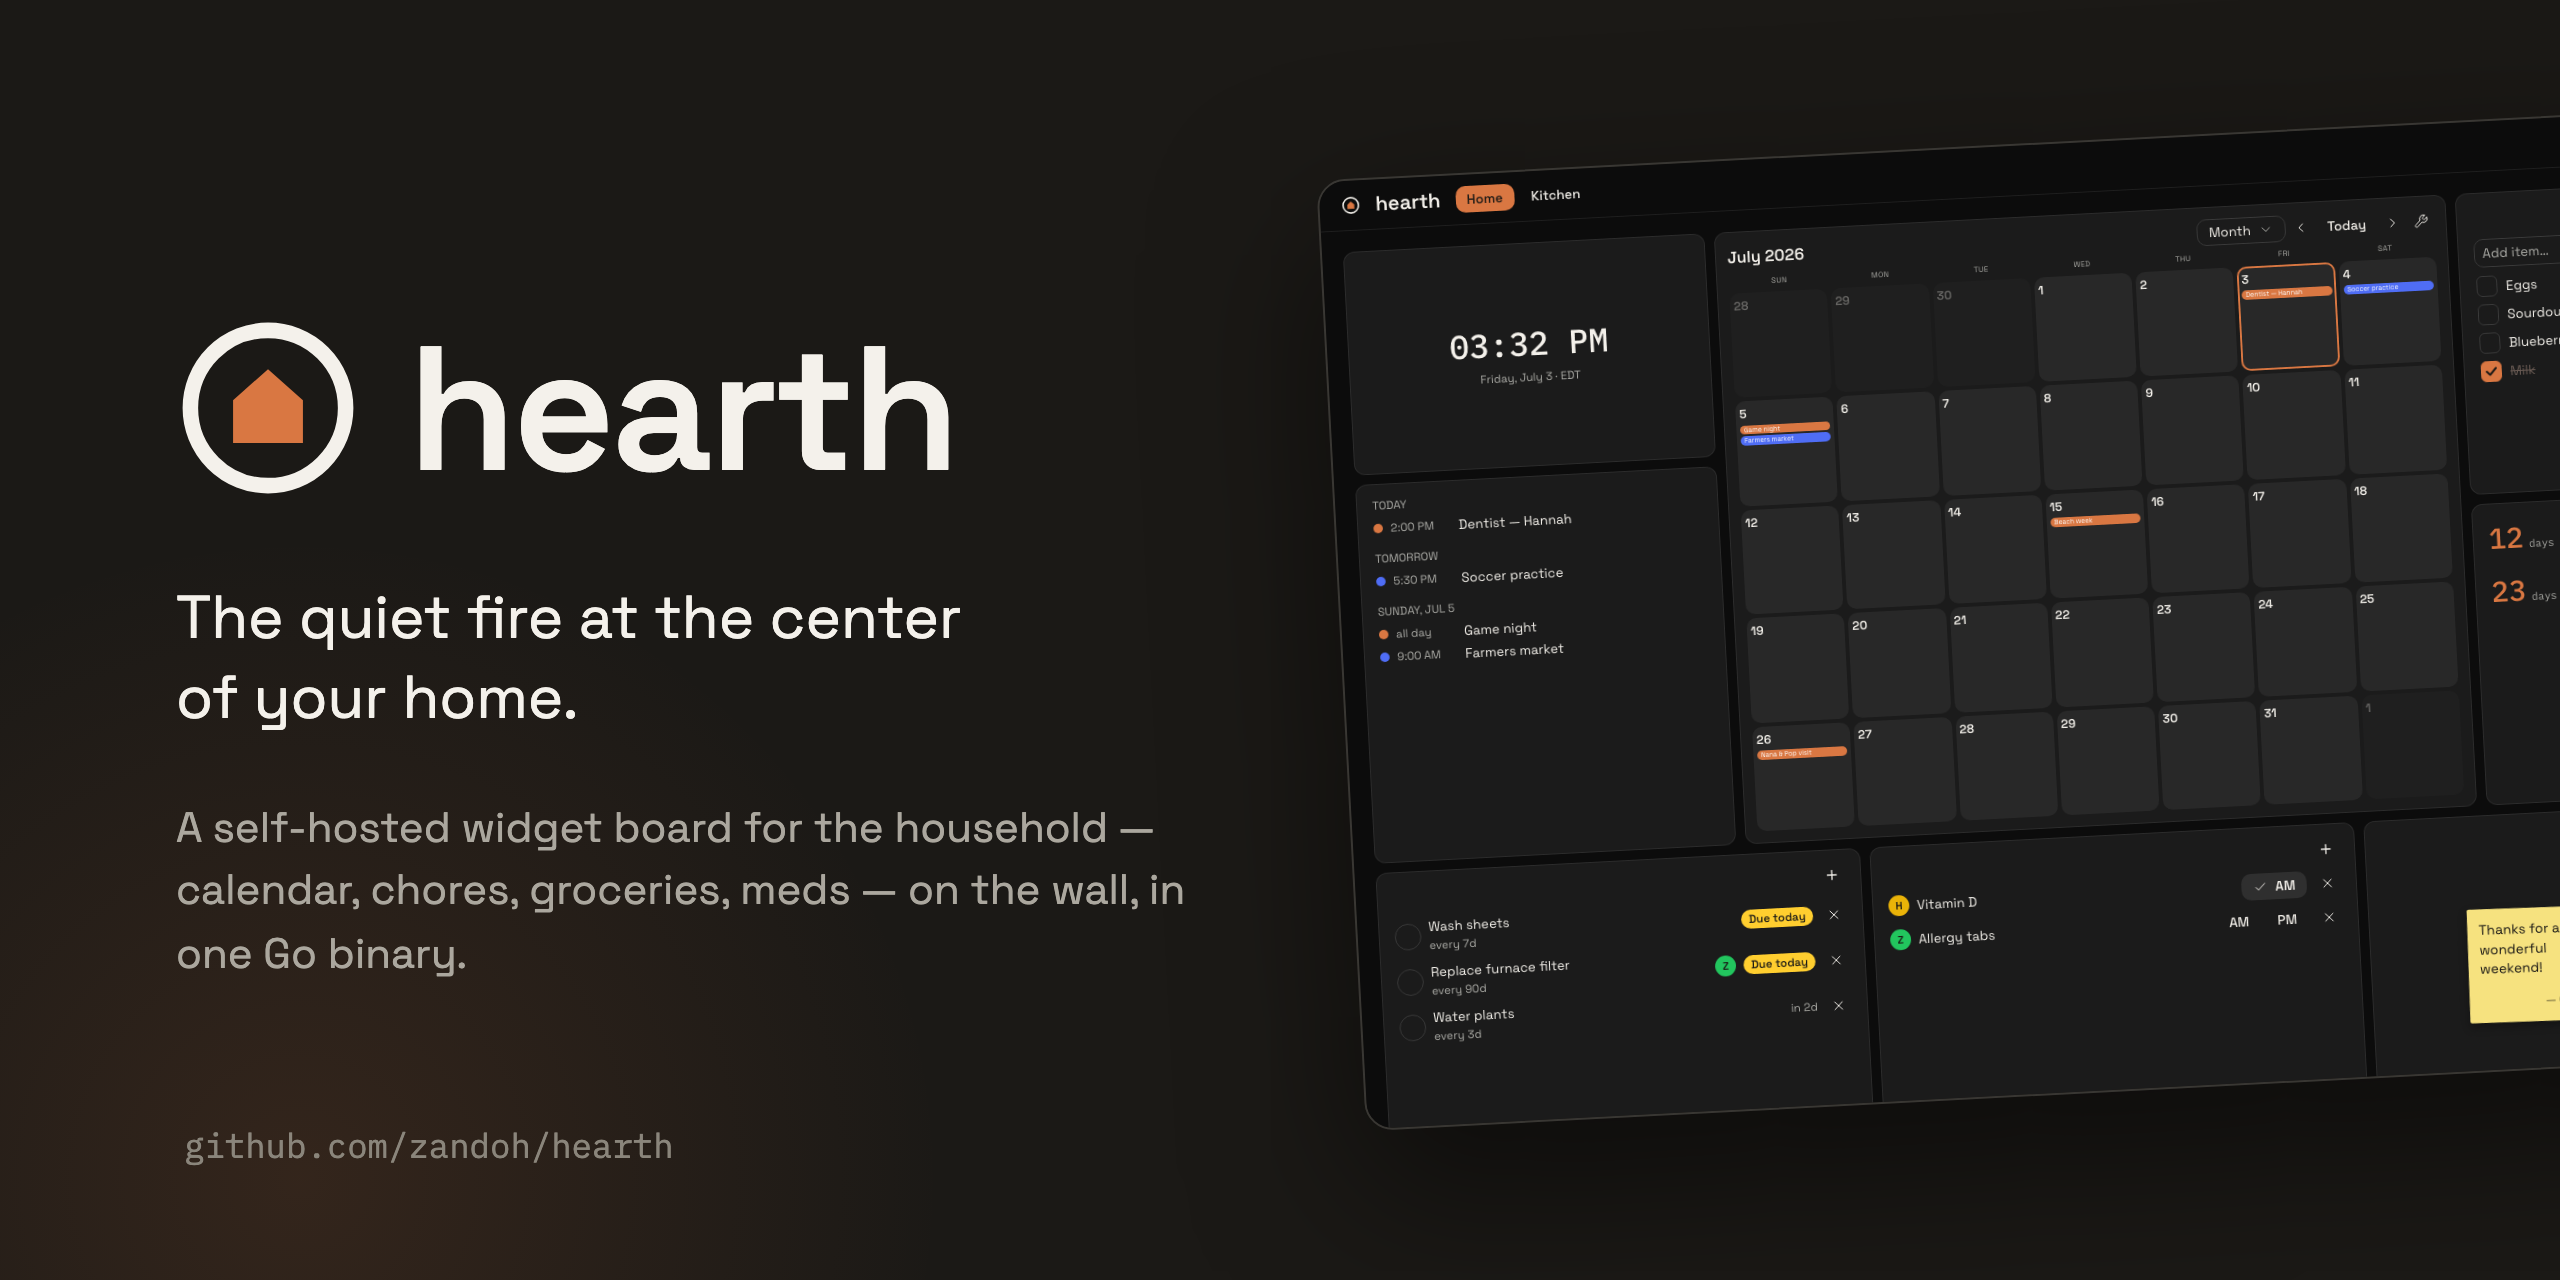
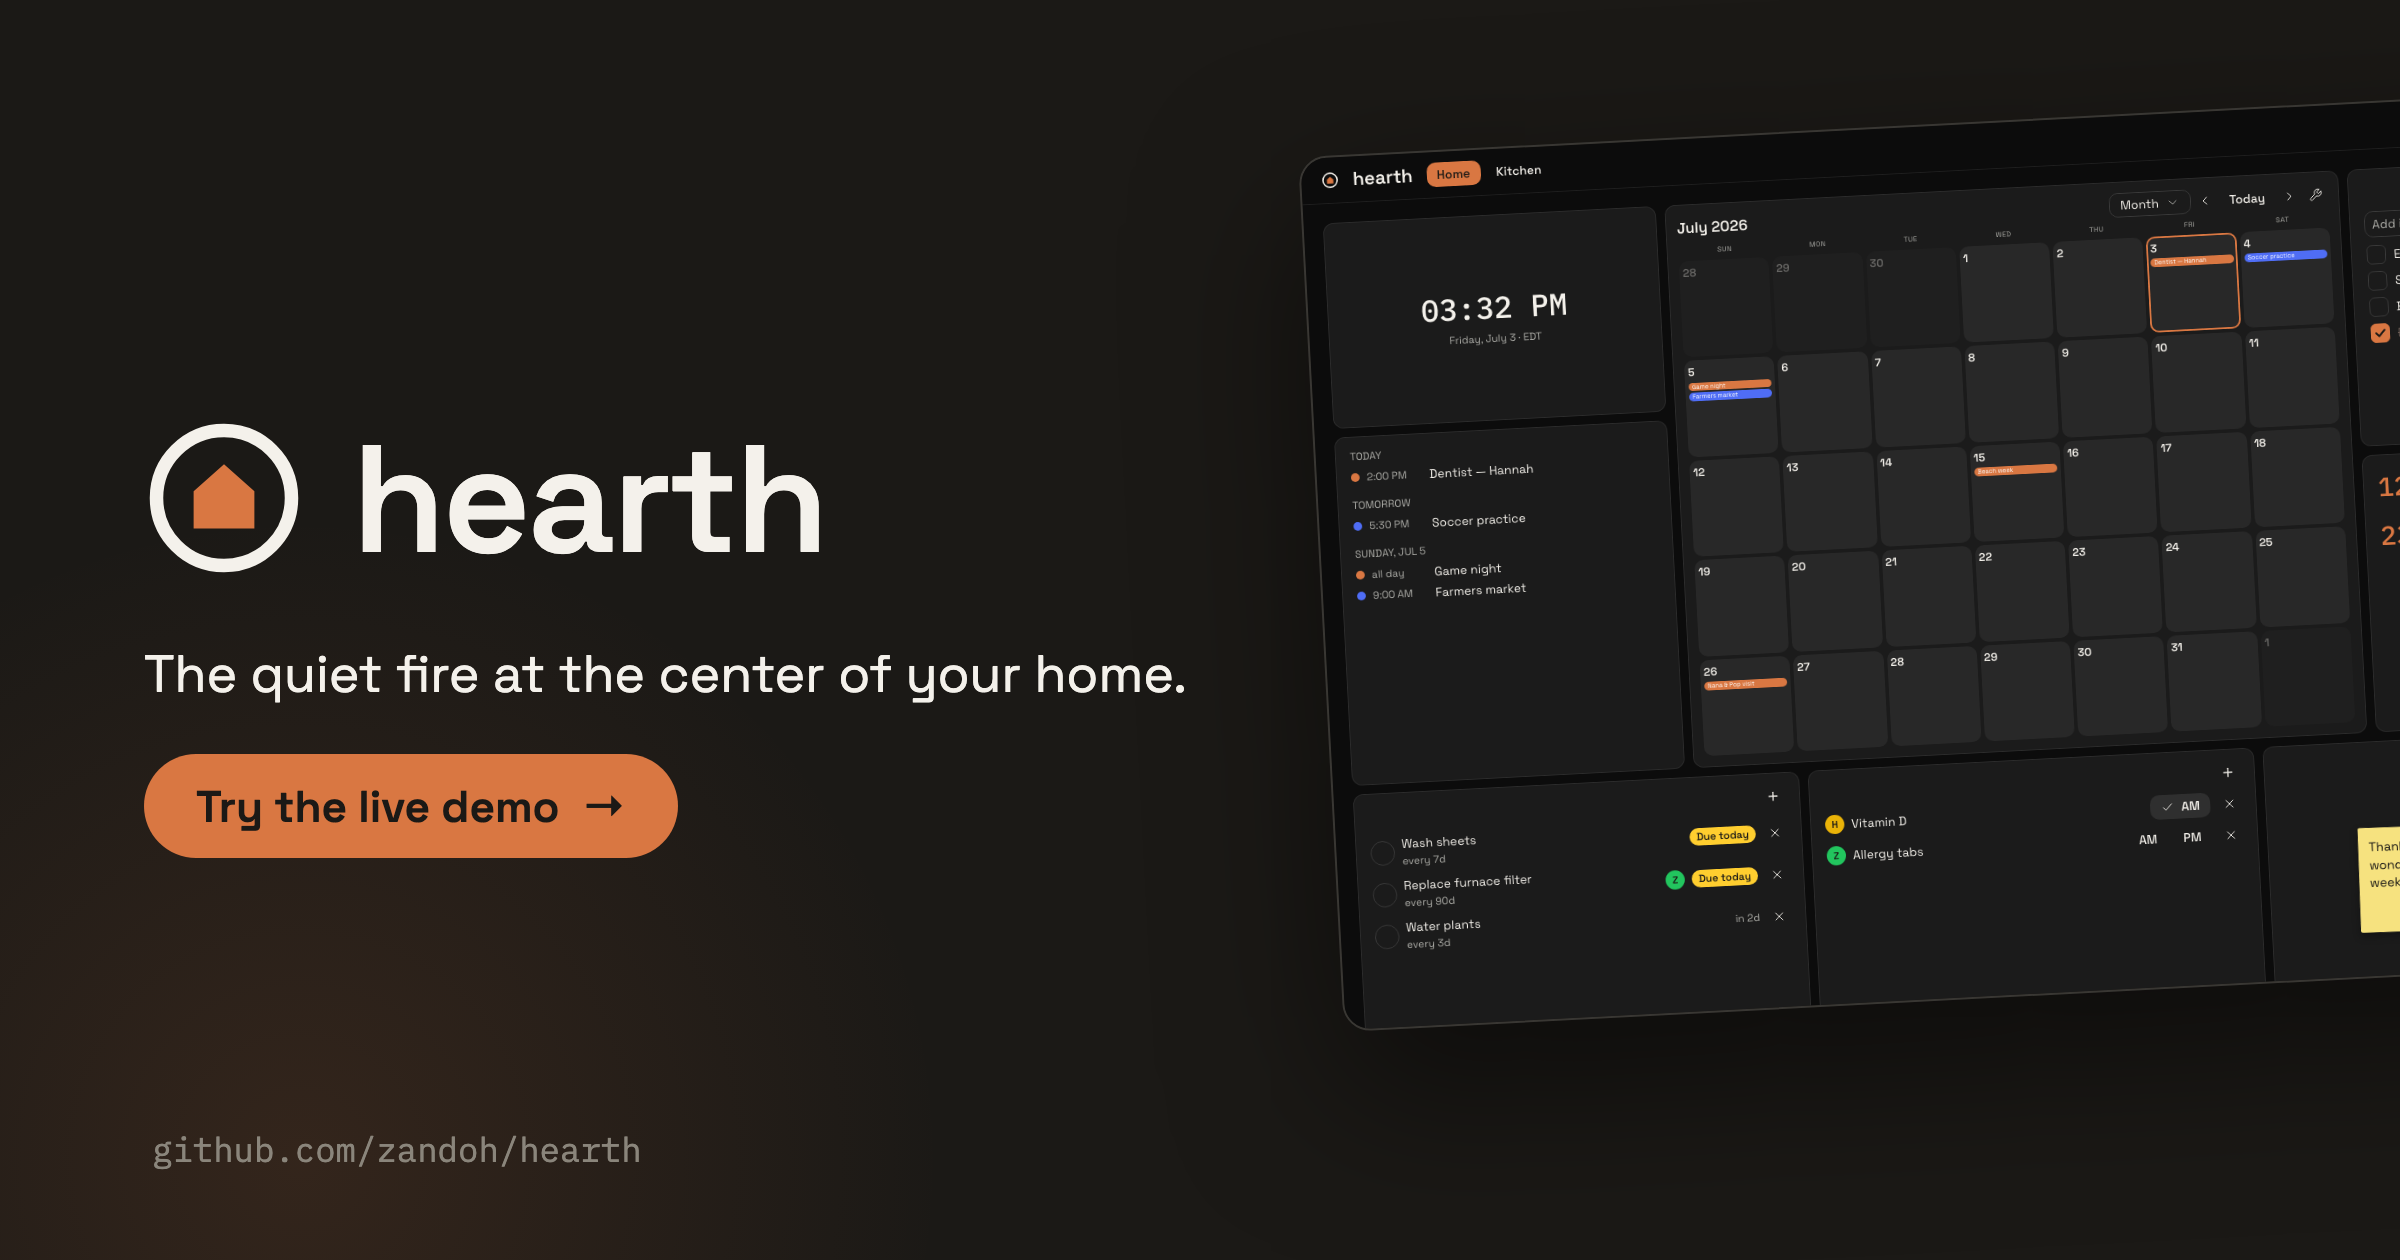
fix(web): og image at 1.91:1 with a call-to-action, tighter copy
Everything the validator flagged: the demo's og:image is now its own
1200x630 (@user) variant with an ember 'Try the live demo' pill — the
GitHub social preview keeps its 2:1 canvas, which is GitHub's own spec;
the generator renders both from one template. Descriptions come in
under 125 characters, the page title uses its 50-60 character budget,
and the declared image dimensions match the artifact.

diff --git a/web/e2e/social-card.html b/web/e2e/social-card.html
@@ -54,6 +54,23 @@
     overflow: hidden;
   }
   .shot img { width: 100%; display: block; }
+  .cta {
+    display: none;
+    align-self: flex-start;
+    background: #D97742; color: #1B1916;
+    font-weight: 600; font-size: 22px;
+    padding: 12px 26px; border-radius: 999px;
+  }
+  /* og variant: 1200x630 (1.91:1) with a call-to-action for link unfurls */
+  body.og { width: 1200px; height: 630px; }
+  body.og .content { width: 540px; left: 72px; gap: 22px; }
+  body.og .wordmark { font-size: 76px; }
+  body.og .lockup svg { width: 80px; height: 80px; }
+  body.og .tagline { font-size: 26px; }
+  body.og .sub { display: none; }
+  body.og .cta { display: inline-block; }
+  body.og .repo { left: 76px; bottom: 44px; }
+  body.og .shot { width: 700px; right: -160px; top: 60px; }
 </style></head>
 <body>
   <div class="glow"></div>
@@ -69,6 +86,7 @@
     </div>
     <div class="tagline">The quiet fire at the center of&nbsp;your&nbsp;home.</div>
     <div class="sub">A self-hosted widget board for the household — calendar, chores, groceries, meds — on the wall, in one Go binary.</div>
+    <div class="cta">Try the live demo&nbsp;&nbsp;&rarr;</div>
   </div>
   <div class="repo">github.com/zandoh/hearth</div>
   <div class="shot"><img src="../../docs/board-dark.png"></div>

diff --git a/web/index.html b/web/index.html
@@ -4,25 +4,25 @@
     <meta charset="UTF-8" />
     <link rel="icon" type="image/svg+xml" href="/favicon.svg" />
     <meta name="viewport" content="width=device-width, initial-scale=1.0" />
-    <title>hearth</title>
+    <title>hearth — the quiet fire at the center of your home</title>
 
     <!-- Link previews. The image URL must be absolute for crawlers; it
          points at the public demo, which is the only place this page gets
          shared from — self-hosted boards live on LANs no crawler reaches. -->
-    <meta name="description" content="A self-hosted home hub for an always-on touchscreen: shared calendar, chores, groceries, meds, and meal plans on a drag-to-arrange widget board. One Go binary." />
+    <meta name="description" content="Self-hosted home hub for your kitchen wall — shared calendar, chores, groceries, and meds in one Go binary." />
     <meta name="theme-color" content="#1B1916" />
     <meta property="og:type" content="website" />
     <meta property="og:site_name" content="hearth" />
     <meta property="og:title" content="hearth — the quiet fire at the center of your home" />
-    <meta property="og:description" content="A self-hosted home hub for an always-on touchscreen: shared calendar, chores, groceries, meds, and meal plans on a drag-to-arrange widget board. One Go binary." />
+    <meta property="og:description" content="Self-hosted home hub for your kitchen wall — shared calendar, chores, groceries, and meds in one Go binary." />
     <meta property="og:url" content="https://zandoh.github.io/hearth/" />
     <meta property="og:image" content="https://zandoh.github.io/hearth/og.png" />
-    <meta property="og:image:width" content="2560" />
-    <meta property="og:image:height" content="1280" />
-    <meta property="og:image:alt" content="The hearth lockup beside a dark widget board: calendar, countdowns, chores, and a guest book sticky note." />
+    <meta property="og:image:width" content="2400" />
+    <meta property="og:image:height" content="1260" />
+    <meta property="og:image:alt" content="The hearth lockup and a Try-the-live-demo button beside a dark household widget board." />
     <meta name="twitter:card" content="summary_large_image" />
     <meta name="twitter:title" content="hearth — the quiet fire at the center of your home" />
-    <meta name="twitter:description" content="Self-hosted home hub for an always-on touchscreen. Try the live demo — it runs entirely in your browser." />
+    <meta name="twitter:description" content="Self-hosted home hub for the kitchen wall. The demo runs entirely in your browser — try it." />
     <meta name="twitter:image" content="https://zandoh.github.io/hearth/og.png" />
   </head>
   <body>